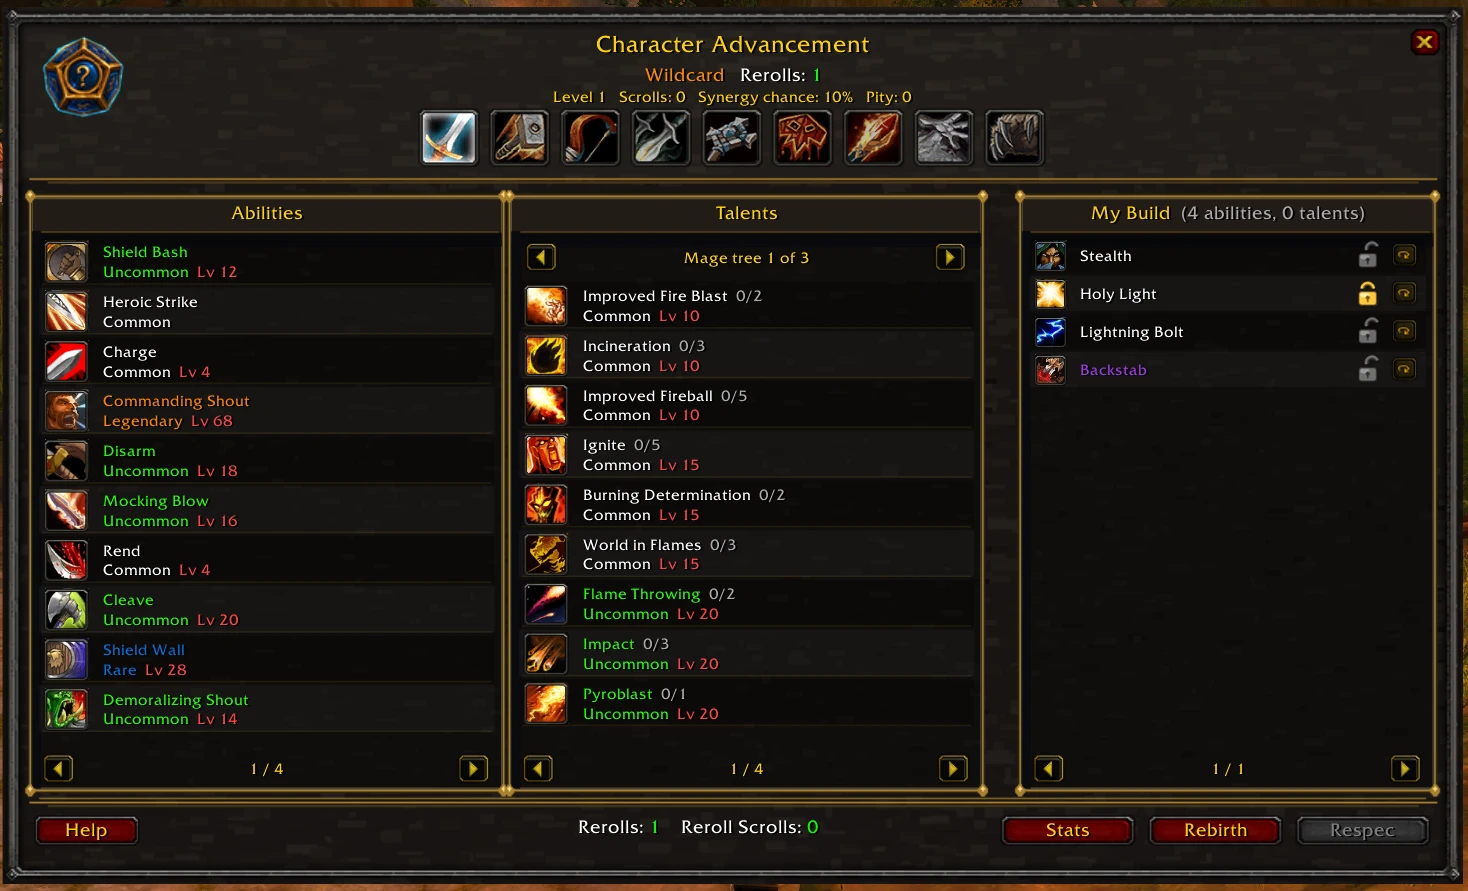
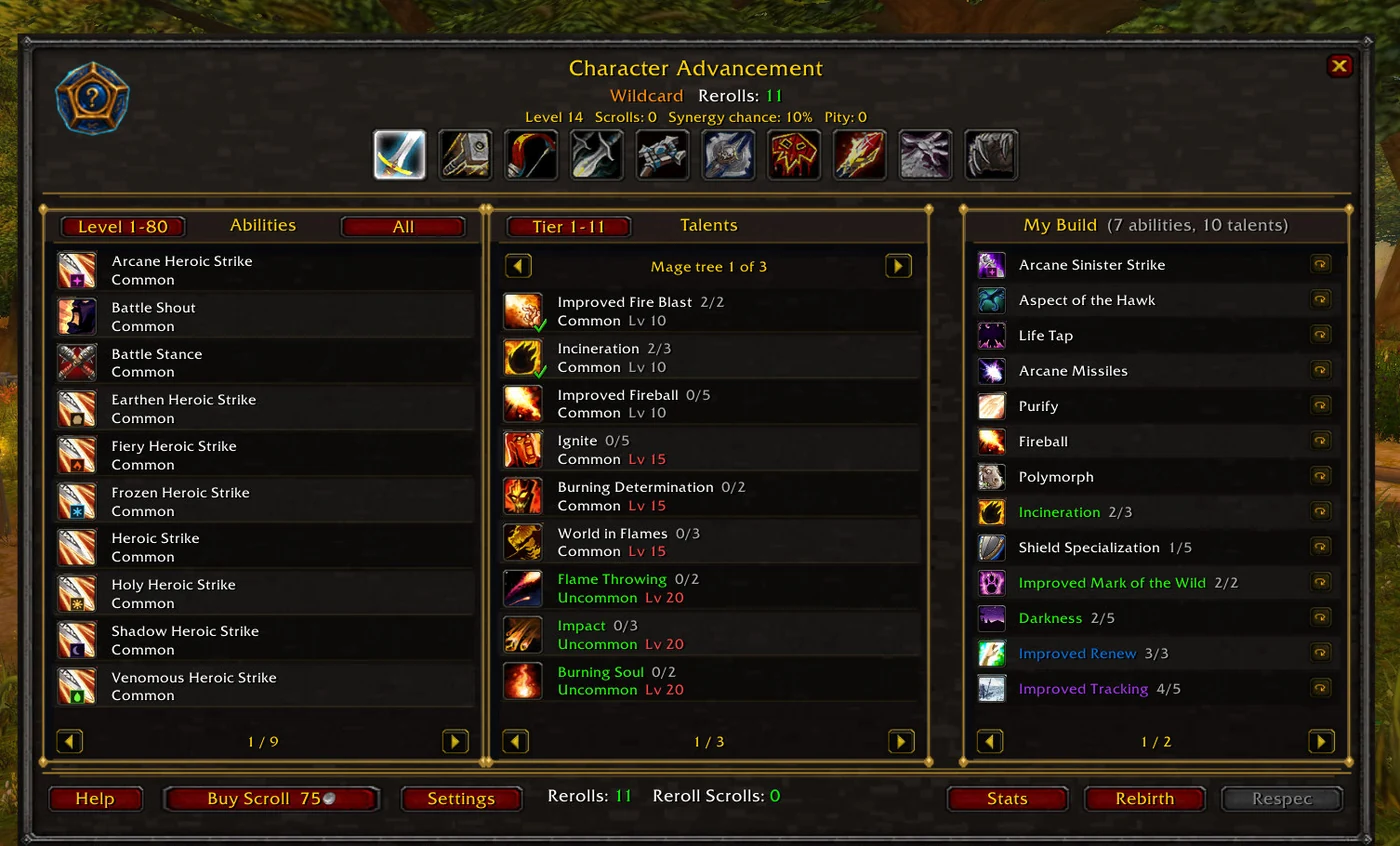
Talent Reroll changes

Changed region(s): [[0.0, 0.0, 1.0, 1.0]]

diff --git a/client-addon/test_addon_flow.py b/client-addon/test_addon_flow.py
@@ -963,7 +963,87 @@ def test_reveal_layout(h):
             "and they are big enough to hit (%sx%s)"
             % (CW.revealKeep["__w"], CW.revealKeep["__h"]))
 
+    # ---- out of charges, the reroll button becomes the way to get one
+    reveal["__shown"] = True
+    roll = CW.revealReroll
+
+    def st(scrolls, rerolls, level, buy):
+        return "S|1|0|0|0|10|%d|%d|5|1|50|%d|1|5000|%d|10|0|20|5" % (
+            scrolls, level, rerolls, buy)
+
+    h.recv(st(scrolls=0, rerolls=0, level=40, buy=1))
+    h.check(roll.buy is True and "Buy Scroll" in str(roll["__text"]),
+            "with nothing left to spend, Reroll becomes Buy Scroll (%s)" % roll["__text"])
+    h.check("5000" in str(roll["__text"]), "with the price on it (%s)" % roll["__text"])
+    h.check(roll["__enabled"] is not False, "and it is clickable")
+    h.clear_sent()
+    h.click(roll)
+    h.check(h.sent() == ["BUYSCROLL 0"],
+            "clicking it buys, and only buys (%s)" % h.sent())
+
+    h.recv(st(scrolls=1, rerolls=0, level=40, buy=1))
+    h.check(roll.buy is None and str(roll["__text"]) == "Reroll (1)",
+            "the scroll arriving turns it back into a reroll (%s)" % roll["__text"])
+
+    h.recv(st(scrolls=0, rerolls=0, level=40, buy=0))
+    h.check(str(roll["__text"]) == "Reroll (0)" and roll["__enabled"] is False,
+            "a realm with scroll buying off still shows a dead button (%s)" % roll["__text"])
+
+    h.recv(st(scrolls=0, rerolls=0, level=4, buy=0))
+    h.check(str(roll["__text"]) == "Reroll (free)",
+            "and below the free-reroll level it costs nothing (%s)" % roll["__text"])
+
+    # ---- a rolled TALENT offers the same stake the build list does
+    h.recv(st(scrolls=3, rerolls=2, level=40, buy=1))
+    h.rt.execute("""
+        local CW = ClasslessWildcard_API
+        CW.suppressReveals = false
+        CW.revealQueue = {}
+        CW.revealAnim.phase = "idle"
+        CW.revealAnim.awaiting = false
+        CW.revealFrame:Hide()
+    """)
+    h.recv("RV|T|1500|12345|2|2|0|5")
+    for dt in (1.7, 0.05, 0.4):
+        h.rt.execute("NOW = NOW + %r" % dt)
+        reveal["__scripts"]["OnUpdate"](reveal, dt)
+    d = CW.revealAnim.data
+    h.check(d is not None and d.maxRank == 5,
+            "the reveal knows the talent's ceiling (%s)" % (d and d.maxRank))
+
+    picker = CW.talentRerollFly
+    picker["__shown"] = False
+    h.clear_sent()
+    h.click(roll)
+    h.check(picker["__shown"] is True,
+            "rerolling a rolled talent from the reveal offers the stake")
+    h.check(h.sent() == [], "and sends nothing until the choice is made (%s)" % h.sent())
+    h.click(picker.plus)
+    h.click(picker.go)
+    h.check(h.sent() == ["RRT 1500 1"], "the stake goes out from the reveal too (%s)" % h.sent())
+    h.check(CW.revealAnim.awaiting is True,
+            "and the reveal holds open for what replaces it")
+
+    # ---- a rolled ABILITY has no rank, so it rerolls straight out
+    h.rt.execute("""
+        local CW = ClasslessWildcard_API
+        CW.revealQueue = {}
+        CW.revealAnim.phase = "idle"
+        CW.revealAnim.awaiting = false
+        CW.revealFrame:Hide()
+    """)
+    h.recv("RV|A|133|0|0")
+    for dt in (1.7, 0.05, 0.4):
+        h.rt.execute("NOW = NOW + %r" % dt)
+        reveal["__scripts"]["OnUpdate"](reveal, dt)
+    picker["__shown"] = False
+    h.clear_sent()
+    h.click(roll)
+    h.check(picker["__shown"] is False and h.sent() == ["RR 133"],
+            "an ability reveal rerolls straight out (%s)" % h.sent())
+
     h.rt.execute("ClasslessWildcard_API.revealFX.HideInfo()")
+    reveal["__shown"] = False
 
 
 def test_lock_window(h):
@@ -1081,15 +1161,34 @@ def test_talent_reroll(h):
     h.check(fly["__shown"] is False and h.sent() == ["RRT 1500 0"],
             "a maxed talent rerolls straight out, with no stake offered (%s)" % h.sent())
 
-    # ---- and so does a Hero with no scrolls to stake
+    # ---- with NO scrolls it still opens, so the mechanic is discoverable by
+    #      the people who have not bought any yet
     h.recv("S|1|0|0|0|10|0|40|5|1|50|2|1|5000|1|10|0|20|5")
     h.recv("OT|1500:12345:2:2:5;")
     h.recv("OTE|")
     row = list(rows().values())[0]
+    fly["__shown"] = False
+    h.clear_sent()
+    h.click(row.actBtn)
+    h.check(fly["__shown"] is True, "with no scrolls it still asks, rather than hiding the option")
+    h.check("20%" in str(fly.stake["__text"]),
+            "and says what one scroll would buy (%s)" % fly.stake["__text"])
+    h.check(fly.plus["__enabled"] is False,
+            "with nothing to stake, + is disabled rather than missing")
+    h.clear_sent()
+    h.click(fly.go)
+    h.check(h.sent() == ["RRT 1500 0"], "and it still rerolls plainly (%s)" % h.sent())
+
+    # ---- a server that does not offer staking asks nothing
+    h.recv("S|1|0|0|0|10|3|40|5|1|50|2|1|5000|1|10")
+    h.recv("OT|1500:12345:2:2:5;")
+    h.recv("OTE|")
+    row = list(rows().values())[0]
+    fly["__shown"] = False
     h.clear_sent()
     h.click(row.actBtn)
     h.check(fly["__shown"] is False and h.sent() == ["RRT 1500 0"],
-            "no scrolls, no question (%s)" % h.sent())
+            "a server that sends no stake terms gets a plain reroll (%s)" % h.sent())
 
     frame["__shown"] = False
 

diff --git a/src/ClasslessMgr.cpp b/src/ClasslessMgr.cpp
@@ -3575,9 +3575,11 @@ uint32 ClasslessMgr::RollTalent(Player* player)
         GrantTalentRankInternal(player, *chosen, newRank);
         lastGranted = chosen->talentId;
         if (!_revealSuppress)
-            PushAddon(player, Acore::StringFormat("RV|T|{}|{}|{}|{}|{}",
+            // field 8 is the talent's maximum rank: the reveal needs it to know
+            // whether this one still has a rank left to stake scrolls on
+            PushAddon(player, Acore::StringFormat("RV|T|{}|{}|{}|{}|{}|{}",
                 chosen->talentId, chosen->rankSpells[newRank - 1], uint32(shown),
-                uint32(newRank), synergy ? 1 : 0));
+                uint32(newRank), synergy ? 1 : 0, uint32(chosen->maxRank)));
     }
 
     SaveState(player);
@@ -3656,9 +3658,9 @@ bool ClasslessMgr::Reroll(Player* player, bool isTalent, uint32 entry, std::stri
             {
                 GrantTalentRankInternal(player, *t, newRank);
                 if (!_revealSuppress)
-                    PushAddon(player, Acore::StringFormat("RV|T|{}|{}|{}|{}|0",
+                    PushAddon(player, Acore::StringFormat("RV|T|{}|{}|{}|{}|0|{}",
                         t->talentId, t->rankSpells[newRank - 1],
-                        uint32(RankRarity(*t, newRank)), uint32(newRank)));
+                        uint32(RankRarity(*t, newRank)), uint32(newRank), uint32(t->maxRank)));
                 Msg(player, Acore::StringFormat("{} rises to rank {} of {}.",
                     SpellName(t->rankSpells[0]), uint32(newRank), uint32(t->maxRank)));
                 PruneCompanions(player);

diff --git a/README.md b/README.md
@@ -71,6 +71,13 @@ and installs the addon that players use to buy abilities and see rolls. See
 
 <div align="center">
 
+<img src="docs/hero_creation.webp" alt="The WotLK character creation screen with no class list: the race panel on the left, and a Hero panel on the right listing what a Hero can do" width="96%">
+
+<em><b>Character creation.</b> There is no class list. Pick a race, and the panel on the right<br>
+tells you what every character gets: all armour and weapons, every resource, and any spell in the game.</em>
+
+<br><br>
+
 <img src="docs/advancement_addon.webp" alt="The Character Advancement panel: an ability browser, talent trees for every class, and the current build side by side" width="92%">
 
 <em>The <b>Character Advancement</b> panel. Browse every class's abilities and talent trees,<br>
@@ -82,6 +89,13 @@ with your build on the right. Lock or reroll anything you own from the same wind
 
 <em>A <b>Wildcard</b> roll. The die lands on a new ability and shows its rarity.<br>
 Keep it, or spend a reroll.</em>
+
+<br><br>
+
+<img src="docs/stat_allocation.webp" alt="The primary stat panel with a row per stat showing the character's total and what it grants, and a tooltip breaking Spirit down further" width="72%">
+
+<em><b>Primary stats.</b> Every row carries your total and what that total is worth,<br>
+projected as you spend. Reallocating is free.</em>
 
 </div>
 
@@ -500,7 +514,7 @@ logging out.
 
 <div align="center">
 
-<img src="docs/elemental_variants_icons.webp" alt="Six base attack icons, each followed by its seven elemental variants, badged in the bottom-left corner for Fire, Frost, Earth, Poison, Arcane, Shadow and Holy" width="92%">
+<img src="docs/elemental_variants_icons.webp" alt="Six base attack icons, each followed by its seven elemental variants, badged along the bottom edge for Fire, Frost, Earth, Poison, Arcane, Shadow and Holy" width="92%">
 
 <em>A variant keeps its base attack's icon and adds a badge for the element.<br>
 Left to right: the base attack, then Fire, Frost, Earth, Poison, Arcane, Shadow, Holy.</em>
